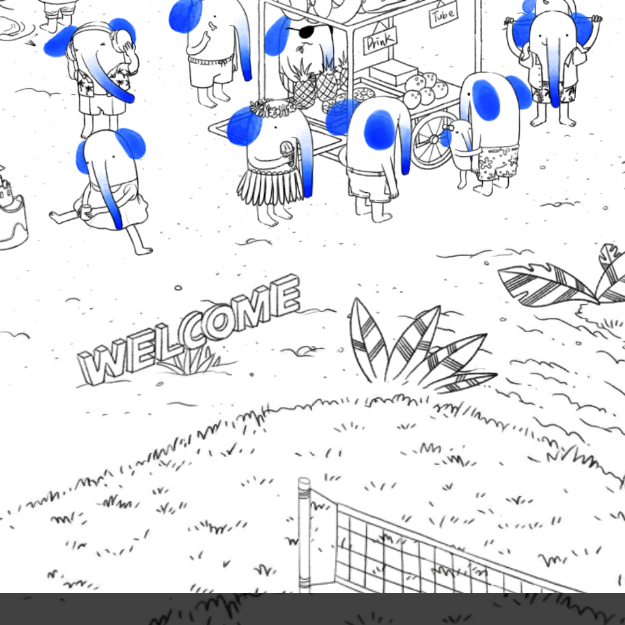
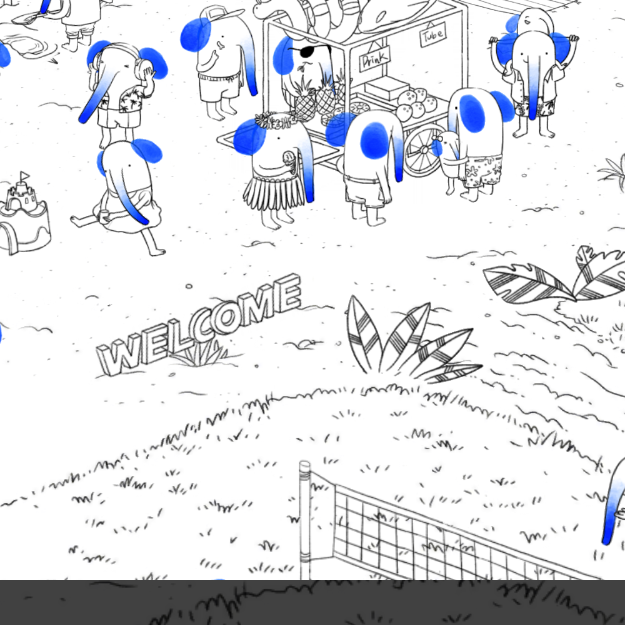
해상도 대응(로드 이미지 범위변경 문제)
기준 해상도를 1920*1080으로 하고 나머지 해상도에서 스트레치하기(width match)
> UI_RenderViewMaskResetting.cs / 수정했던 내용 전부 삭제
> LoadImage_SetScale.cs / width match된 캔버스 사이즈를 카메라의 렌더 텍스쳐와 로드 이미지 사이즈에도 동기화 해줌

: 해상도 변경시 읽어오려는 범위와 찍는 범위가 달라지는 문제를 해결

diff --git a/ProjectOF_Morrie/Assets/Scripts/UI_RenderViewMaskResetting.cs b/ProjectOF_Morrie/Assets/Scripts/UI_RenderViewMaskResetting.cs
@@ -8,6 +8,7 @@ using UnityEngine;
 public class UI_RenderViewMaskResetting : MonoBehaviour
 {
     public RectTransform boxRT, viewFinderRT;
+    public Canvas tempCanvas;
 
     /// <summary>
     /// 렌더뷰의 마스크 사이즈를 찍을 영역에 맞추기
@@ -53,22 +54,9 @@ public class UI_RenderViewMaskResetting : MonoBehaviour
     Vector3 MaskRescaling(Vector3 maskScale)//auto manual all
     {
         float currentWidth = GetComponent<RectTransform>().sizeDelta.x;
-        float targetWidth = TesmpScalableArea(600); //600;
+        float targetWidth = 600;
 
         float multiplyScale = targetWidth / currentWidth;
         return maskScale * multiplyScale;
-    }
-
-    /// <summary>
-    /// 사진을 찍을때마다 해상도를 확인해서 렌더뷰의 마스크를 해상도에따라 다르게 적용
-    /// </summary>
-    float TesmpScalableArea(int baseInt)
-    {
-        Vector2 baseScreen = new Vector2(1080, 1920);
-        float devideArea = baseInt / baseScreen.x;
-        float reviseArea = devideArea * Screen.width;
-
-        print("수정된 랜더뷰 마스크 스케일" + reviseArea);
-        return reviseArea;
     }
 }

diff --git a/ProjectOF_Morrie/Assets/Scripts/PictureSave.cs b/ProjectOF_Morrie/Assets/Scripts/PictureSave.cs
@@ -26,7 +26,10 @@ public class PictureSave : MonoBehaviour
         yield return new WaitForEndOfFrame();
         //한프레임 대기
 
-        Vector2 readArea = ScalableArea(new Vector2(1080 / 2 - 300, 1920 / 2 - 197));
+        //Vector2 temp = ScalableArea(new Vector2(300, 197));
+        //Vector2 readArea = new Vector2(Screen.width/2 - temp.x, Screen.height/2 - temp.y);
+
+        Vector2 readArea = ScalableArea(new Vector2(1080/2 - 300, 1920/2 - 197));
         Vector2 readTexture = ScalableArea(new Vector2(600, 600));
         //Texture2D screenShot = new Texture2D(600, 600, TextureFormat.RGB24, false);
         //screenShot.ReadPixels(new Rect(Screen.width/2 - 300, Screen.height/2 - 197, screenShot.width, screenShot.height), 0, 0);
